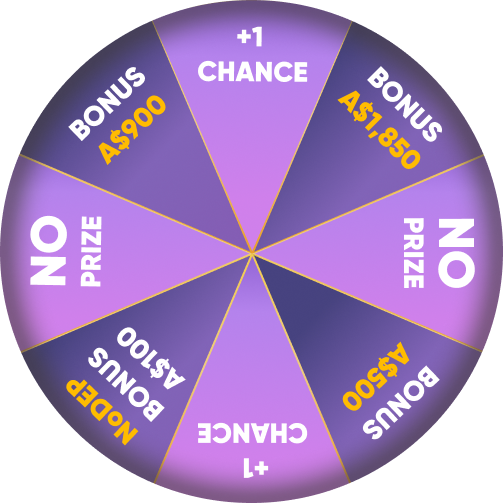
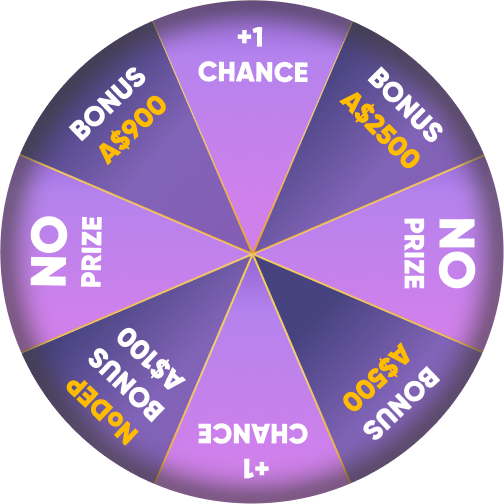
fix

diff --git a/index.html b/index.html
@@ -20,66 +20,15 @@
 							<div class="main__text">
 								<div class="main__block-title">
 									<span class="main__title">SPIN and WIN BONUS up to</span>
-									<span class="main__max-bonus">A$1,850</span>
+									<span class="main__max-bonus">A$2,500</span>
 								</div>
-								<svg
-									class="main__plus"
-									width="32"
-									height="32"
-									fill="none"
-									xmlns="http://www.w3.org/2000/svg"
-								>
-									<path
-										d="M5.5 16h22M16.5 5v22"
-										stroke="#fff"
-										stroke-width="5"
-										stroke-linecap="round"
-										stroke-linejoin="round"
-									/>
-								</svg>
-								<svg
-									class="main__plus-mini"
-									width="23"
-									height="23"
-									viewBox="0 0 23 23"
-									fill="none"
-									xmlns="http://www.w3.org/2000/svg"
-								>
-									<path
-										d="M3.59375 11.5H19.4062"
-										stroke="white"
-										stroke-width="3"
-										stroke-linecap="round"
-										stroke-linejoin="round"
-									/>
-									<path
-										d="M11.5 3.59375V19.4062"
-										stroke="white"
-										stroke-width="3"
-										stroke-linecap="round"
-										stroke-linejoin="round"
-									/>
-								</svg>
-
-								<span class="main__min-bonus"
-									>NoDEP BONUS <span class="main__count">A$100</span></span
-								>
 							</div>
 							<div class="main__prizes">
 								<div class="main__prize prize-item">
 									<span class="prize__title">BONUS up to</span>
-									<span class="prize__subtitle">A$1,850</span>
-								</div>
-								<div class="main__prize-two prize-item">
-									<span class="prize-two__title">+1</span>
-									<span class="prize-two__subtitle">CHANCE</span>
-								</div>
-								<div class="main__prize-three prize-item">
-									<span class="prize-three__title">NoDEP BONUS</span>
-									<span class="prize-three__subtitle">A$100</span>
+									<span class="prize__subtitle">A$2,500</span>
 								</div>
 							</div>
-							<span class="main__attempts">You have 2 more attempts</span>
 						</div>
 					</div>
 					<div class="ruletka">
@@ -2448,11 +2397,7 @@
 						<div class="popup-prizes">
 							<div class="popup__prize prize-item">
 								<span class="popup-prize__title">BONUS up to</span>
-								<span class="popup-prize__subtitle">A$1,850</span>
-							</div>
-							<div class="popup__prize prize-item">
-								<span class="popup-prize__title">NoDEP BONUS</span>
-								<span class="popup-prize__subtitle prize-subtitle">A$100</span>
+								<span class="popup-prize__subtitle">A$2,500</span>
 							</div>
 						</div>
 						<a class="popup__btn btn" href="https://caswino.com">

diff --git a/js/main.js b/js/main.js
@@ -18,19 +18,13 @@ function launchConfetti() {
 	}
 }
 
-
-
-// Пример использования
-
 document.addEventListener('DOMContentLoaded', function () {
 	const ruletkaBtn = document.querySelector('.main-ruletka__btn')
 	const ruletkaBtnCenter = document.querySelector('.main-ruletka__arrow')
 
 	const ruletkaWhel = document.querySelector('.main-ruletka__wheel-img')
-	const attempts = document.querySelector('.main__attempts')
 	const prizeFirst = document.querySelector('.main__prize')
-	const prizeSecond = document.querySelector('.main__prize-two')
-	const prizeThird = document.querySelector('.main__prize-three')
+
 	const popup = document.querySelector('.popup')
 
 	const firstLampOff = document.querySelectorAll('.first-off')
@@ -39,7 +33,6 @@ document.addEventListener('DOMContentLoaded', function () {
 	const secondLampOn = document.querySelectorAll('.second-on')
 
 	const attemptsText = 'You have the last attempt'
-	let countWhel = 0
 	let isButtonClicked = false
 
 	firstScroll = 2100
@@ -57,20 +50,14 @@ document.addEventListener('DOMContentLoaded', function () {
 				isButtonClicked = true
 				button.classList.add('stop-pulse') // Добавляем класс для остановки пульсации
 
-				if (countWhel === 0) {
-					prize(firstScroll, attemptsText, prizeFirst)
-				} else if (countWhel === 1) {
-					prize(secondScroll, attemptsText, prizeSecond)
-				} else if (countWhel === 2) {
-					prize(thirdScrole, '', prizeThird, prizeSecond)
-				}
+				prize(firstScroll, prizeFirst)
 			})
 		})
 	} else {
 		console.error('Одна или обе кнопки не найдены.')
 	}
 
-	const prize = (scrolling, text, prizePoint, hideBlock = '') => {
+	const prize = (scrolling, prizePoint) => {
 		ruletkaWhel.style.transform = `rotate(${Math.ceil(scrolling)}deg)`
 
 		// Модифицируем функцию lamp для обработки 0 и 1
@@ -85,23 +72,13 @@ document.addEventListener('DOMContentLoaded', function () {
 		// Через 5 секунд остановим цикл и выполняем дальнейшие действия
 		setTimeout(() => {
 			clearInterval(lampInterval) // Останавливаем цикл
-			if (hideBlock) {
-				hideBlock.style.display = 'none'
-			}
-
 			launchConfetti() // Запуск конфетти после загрузки скрипта
-
-			attempts.textContent = text
 			prizePoint.style.display = 'block'
 			isButtonClicked = false
 			ruletkaBtn.classList.remove('stop-pulse')
-
-			if (countWhel === 3) {
-				finish()
-			}
+			finish()
+			
 		}, 5000) // Таймаут 5 секунд
-
-		countWhel++
 	}
 
 	const finish = () => {

diff --git a/css/style.css b/css/style.css
@@ -139,7 +139,8 @@ body {
 	color: #ffbc00;
 	font-size: clamp(34px, 4vw, 60px);
 	line-height: clamp(40px, 4vw, 75px);
-	margin-bottom: clamp(5px, 3vw, 10px);
+	padding-top: 10px;
+	/* margin-bottom: clamp(5px, 3vw, 10px); */
 }
 .main__plus-mini {
 	display: none;
@@ -243,9 +244,10 @@ body {
 	-webkit-background-clip: text;
 	color: transparent;
 }
+.main__prizes{
+	padding-top: 10px;
+}
 .main__prize,
-.main__prize-two,
-.main__prize-three,
 .prize-item {
 	display: none;
 	padding: 10px 20px;
@@ -359,6 +361,7 @@ body {
 	line-height: clamp(17px, 3vw, 22px);
 	color: #ffffff;
 }
+
 .popup__reg a {
 	color: #ffc700;
 	padding: 10px;
@@ -386,14 +389,7 @@ body {
 		transform: translateX(-50%);
 		right: 0%;
 	}
-	.main__prizes {
-		display: flex;
-		justify-content: center;
-		margin-bottom: 10px;
-	}
-	.main__prizes .prize-item {
-		margin: 0 10px;
-	}
+	
 	.main__block-info {
 		max-width: 100%;
 	}
@@ -416,11 +412,11 @@ body {
 	.main__wrapper {
 		height: 95dvh;
 	}
-	.main__text {
+	/* .main__text {
 		display: flex;
 		justify-content: space-between;
 		align-items: center;
-	}
+	} */
 	.main__block-title {
 		flex: 0 1 33.333%;
 	}
@@ -428,9 +424,6 @@ body {
 		top: 5%;
 		width: 500px;
 		height: 420px;
-	}
-	.main__block-info {
-		max-width: 100%;
 	}
 	.popup__subtitle {
 		max-width: 80%;
@@ -461,7 +454,7 @@ body {
 		max-width: 100%;
 	}
 	.main__block-info {
-		padding: 10px 15px;
+		padding: 15px 15px 10px 15px;
 	}
 	.popup__btn {
 		margin-top: 10px;
